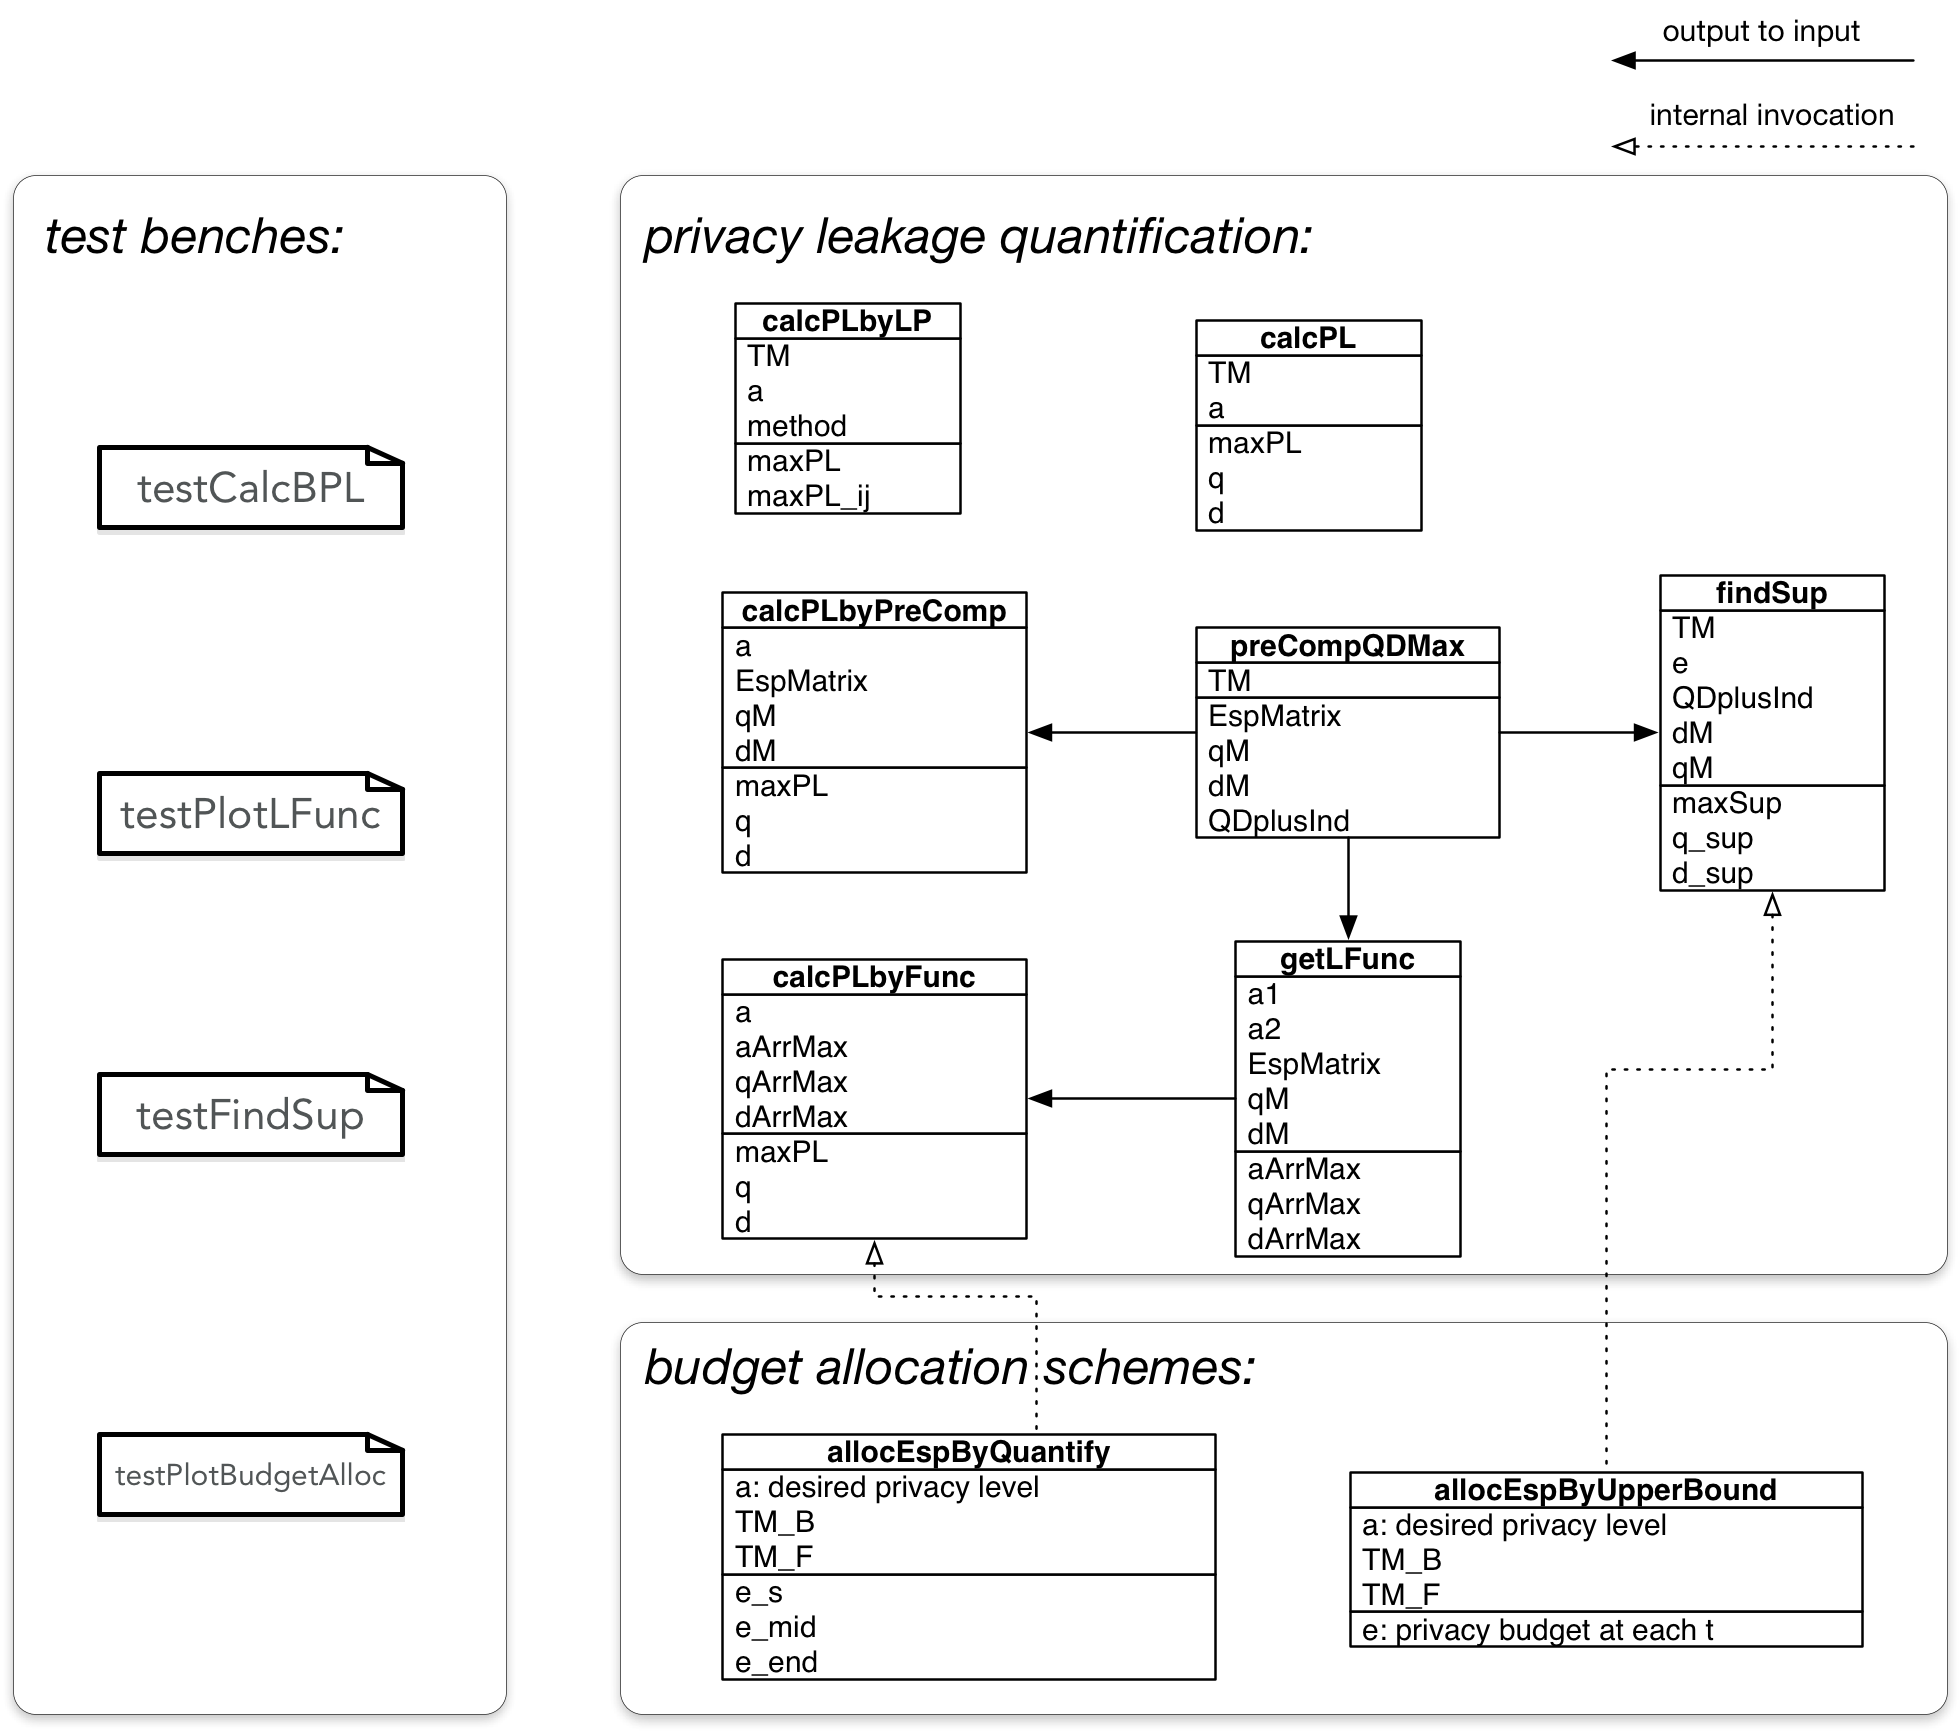
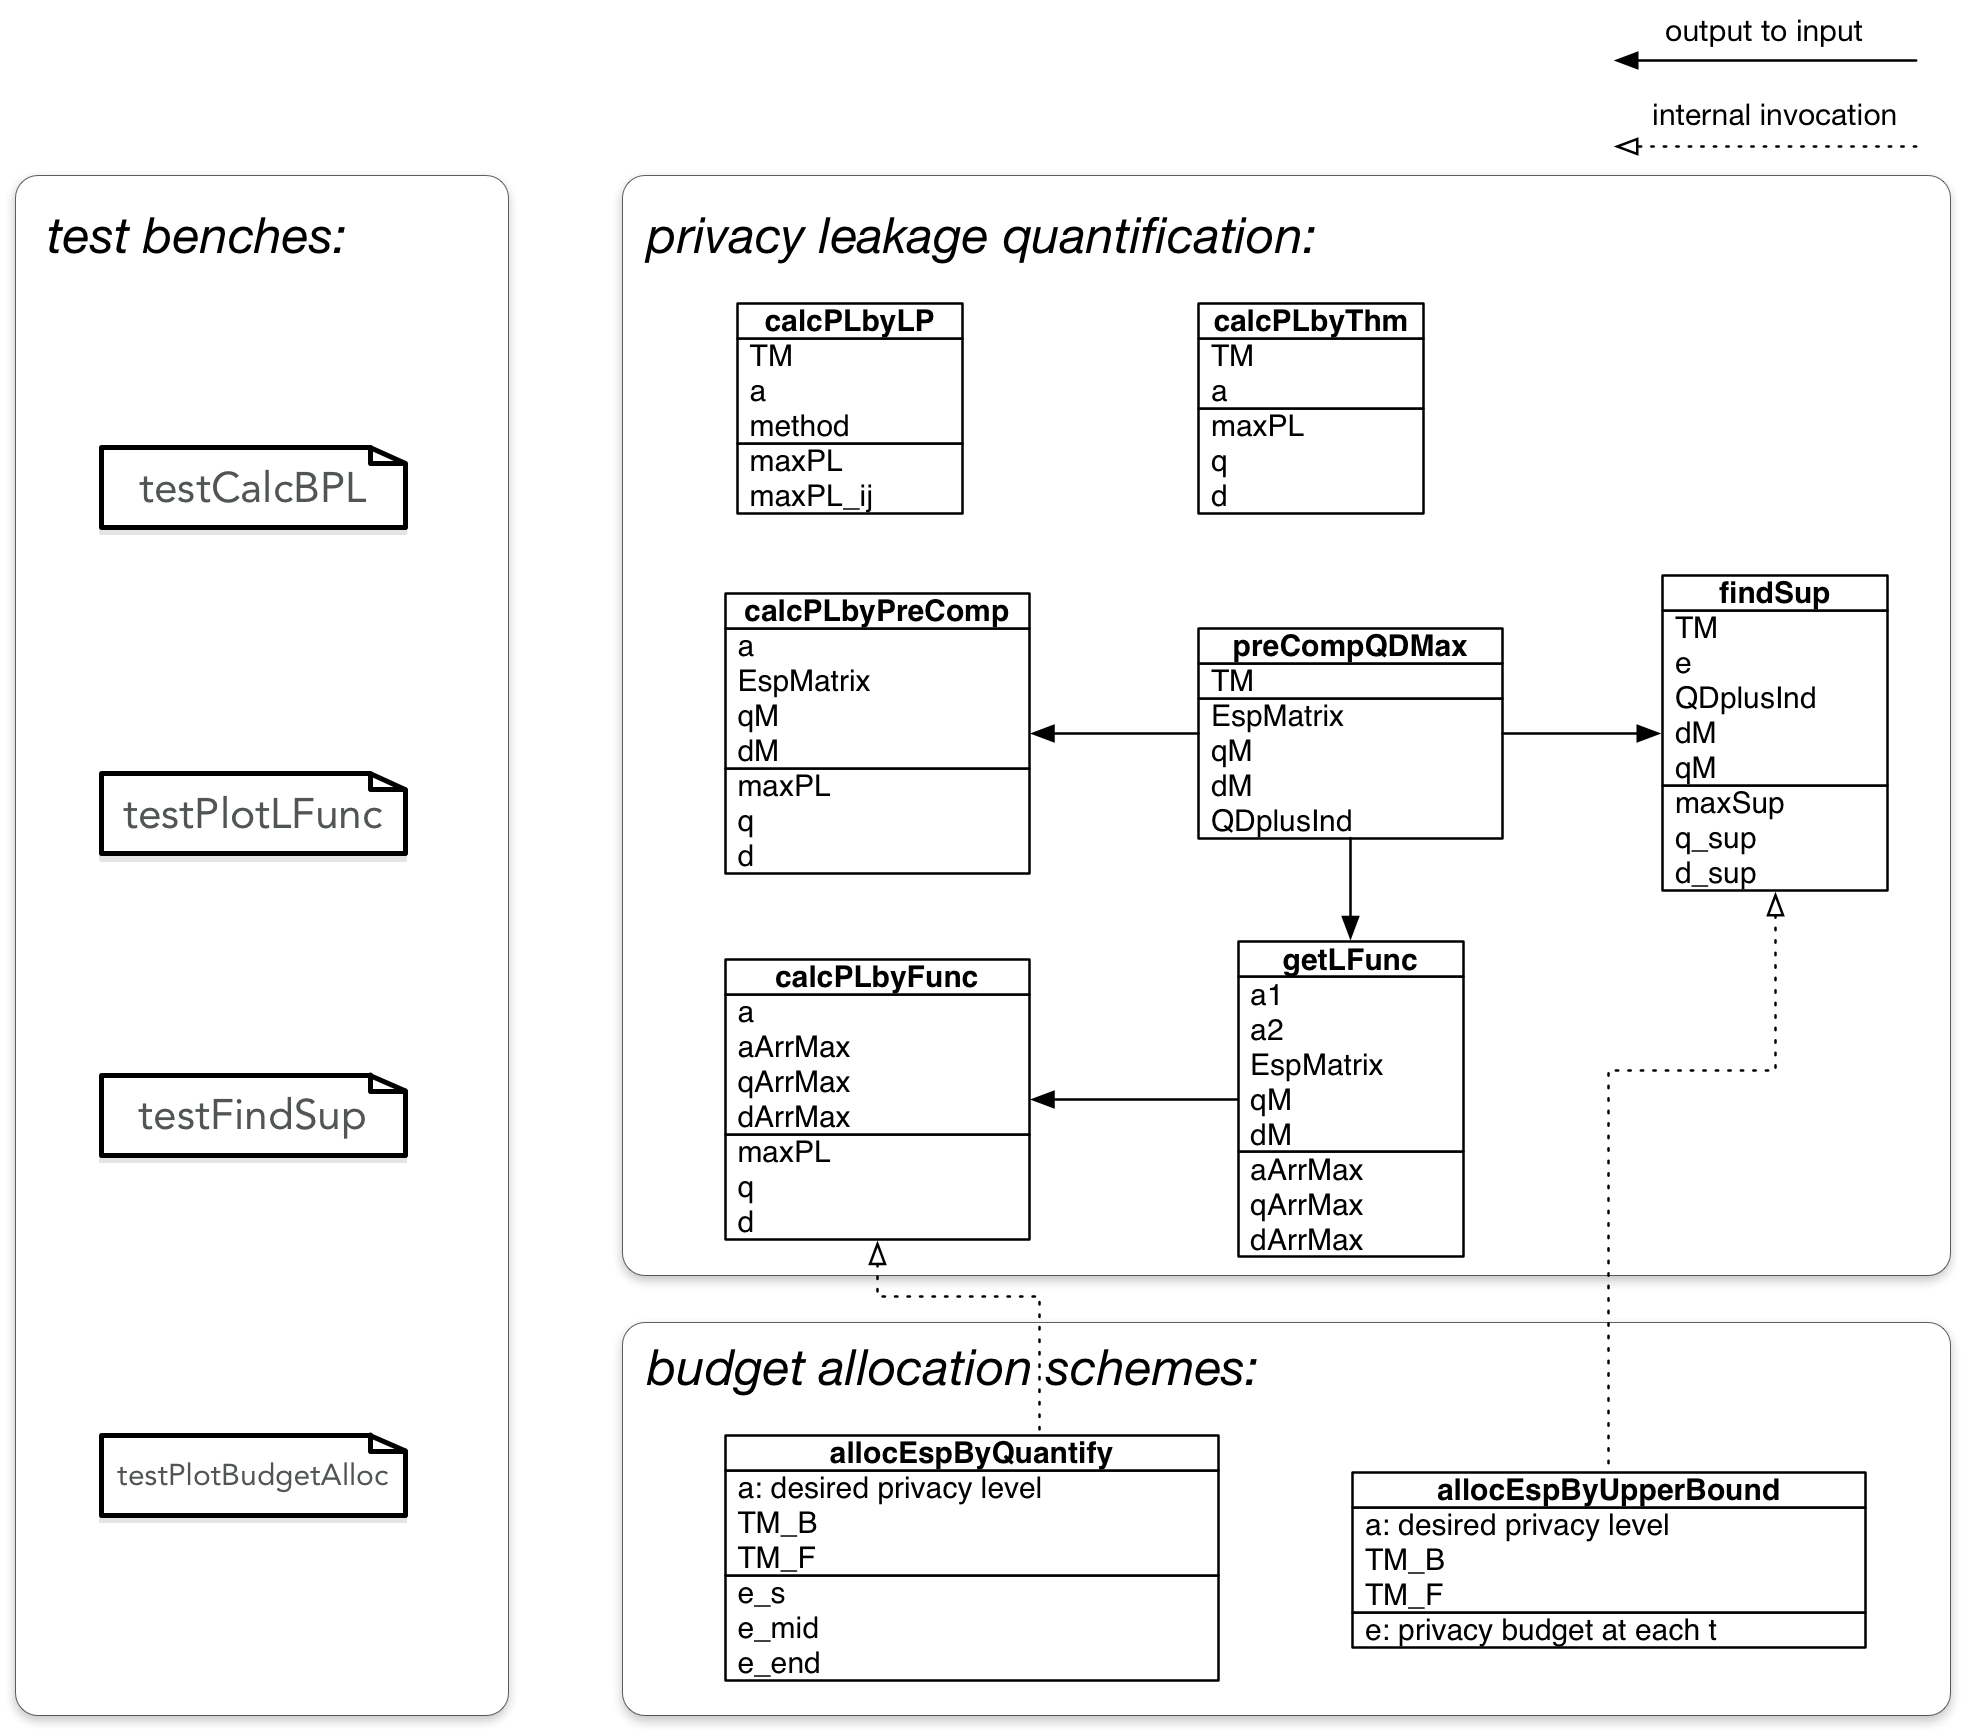
Changed name calcPL to  calcPLbyThm for readability

diff --git a/README.md b/README.md
@@ -44,7 +44,7 @@ Alternatively, you can use Matlab linear program solver rather than CPLEX or Gur
 
 - `testPlotLFunc.m` plotting an example of L(a) function
 - `testPlotBudgetAlloc.m` plotting two examples of budget allocation schemes and the corresponding BPL/FPL/TPL.
-- `testCalcBPL.m` running `calcPLbyLP`, `calcPL`, `calcPLbyPreComp` and `calcPLbyFunc`, and outputing the results and runtime. Note that, the results are not BPL/FPL but L(a).
+- `testCalcBPL.m` running `calcPLbyLP`, `calcPLbyThm`, `calcPLbyPreComp` and `calcPLbyFunc`, and outputing the results and runtime. Note that, the results are not BPL/FPL but L(a).
 - `testFindSup.m` running `findSup` and comparing the result with step-by-step calculation.
  
 # Main Functions
@@ -55,7 +55,7 @@ Alternatively, you can use Matlab linear program solver rather than CPLEX or Gur
 
 ### privacy leakage quantification
 - `calcPLbyLP` Calculating L(a) by Linear programming. input `method` can be set as 'gurobi' or 'cplex', or 'matlab'.
-- `calcPL` Calculating L(a) by Theorem 4.
+- `calcPLbyThm` Calculating L(a) by Theorem 4.
 - `calcPLbyPreComp` Calculating L(a) by precomputation. inputs `EspMatrix`, `qM` and `dM` can be obtained by `preCompQDMatrix`.
 - `calcPLbyFunc` Calculating L(a) by binary search. inputs `aArrMax`, `qArrMax` and `dArrMax` can be obtained by `genLFunc`.
  
